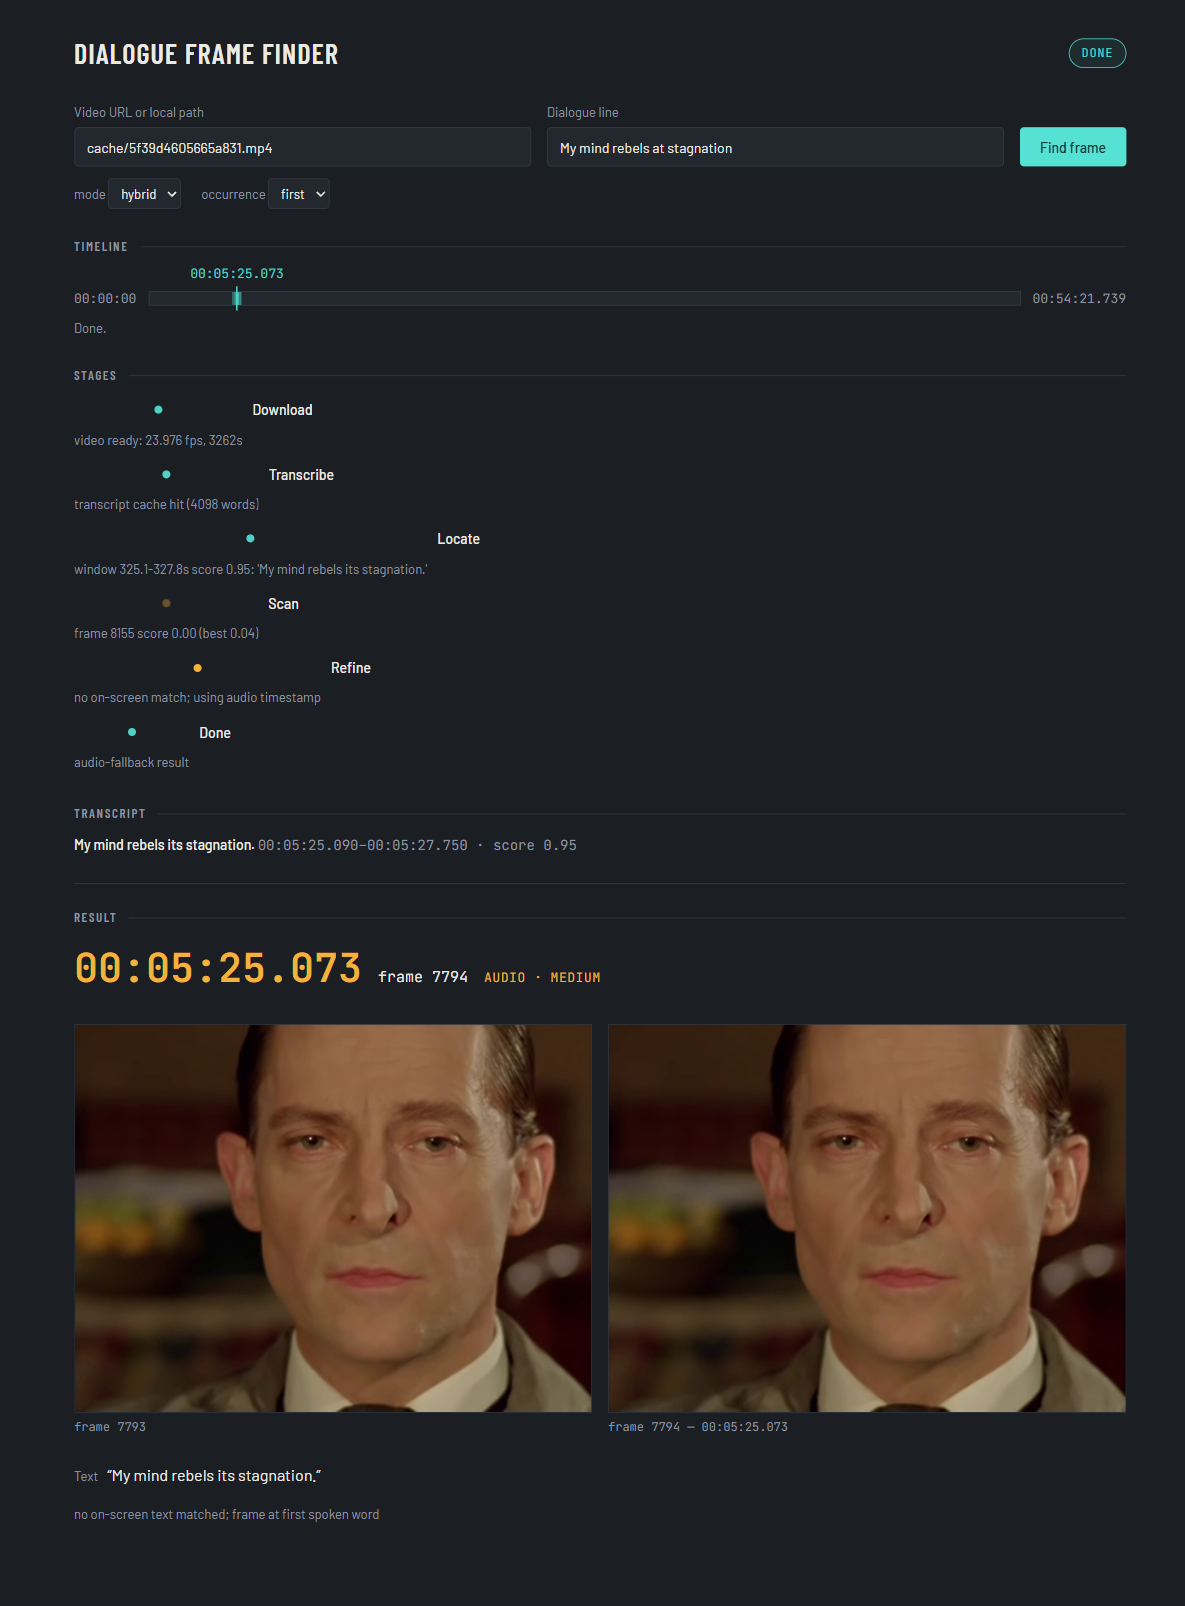
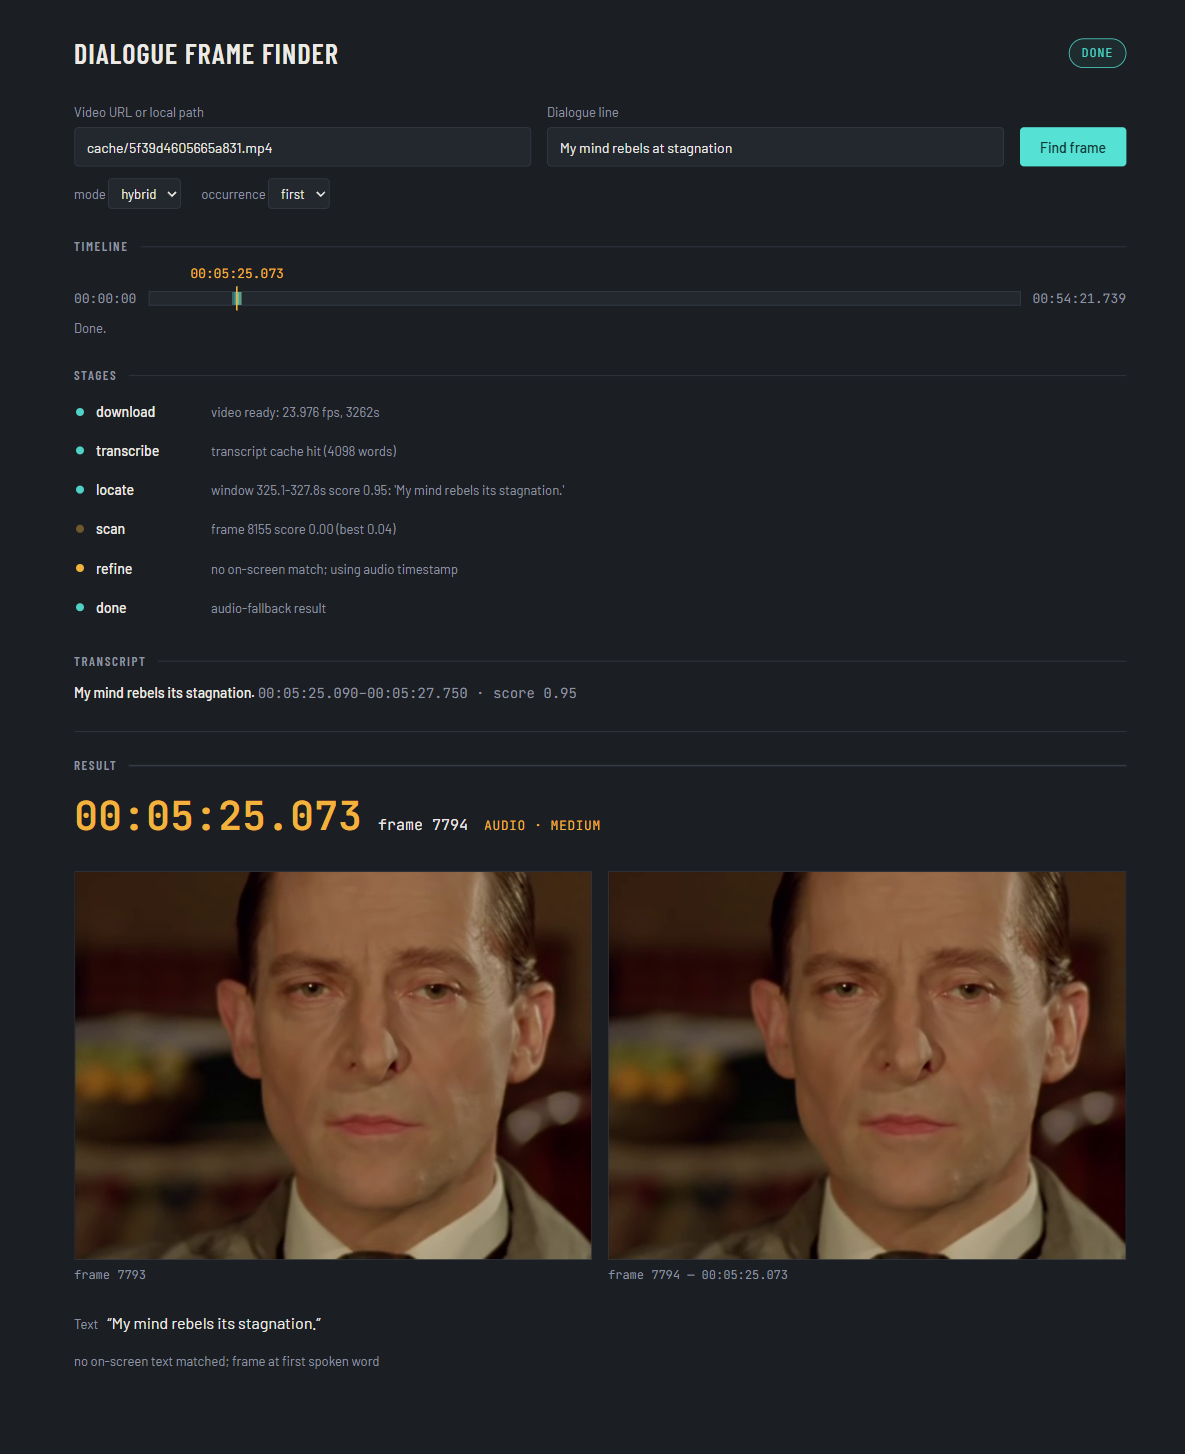
fix: stages row layout, visible audio window, route-coloured marker

diff --git a/frontend/styles.css b/frontend/styles.css
@@ -204,9 +204,11 @@ body {
   bottom: 0;
   background: var(--amber);
   opacity: .35;
+  min-width: 6px;
+  z-index: 1;
 }
 
-.ticks { position: absolute; inset: 0; }
+.ticks { position: absolute; inset: 0; z-index: 2; }
 
 .ticks i {
   position: absolute;
@@ -227,7 +229,11 @@ body {
   width: 2px;
   background: var(--teal);
   transition: left 150ms ease-out;
+  z-index: 3;
 }
+
+#timeline[data-route="audio"] .marker { background: var(--amber); }
+#timeline[data-route="ocr"] .marker { background: var(--teal); }
 
 .marker .tc {
   position: absolute;
@@ -236,6 +242,9 @@ body {
   transform: translateX(-50%);
   color: var(--teal);
 }
+
+#timeline[data-route="audio"] .marker .tc { color: var(--amber); }
+#timeline[data-route="ocr"] .marker .tc { color: var(--teal); }
 
 .hint { color: var(--muted); font-size: 13px; margin: 0; }
 
@@ -252,11 +261,11 @@ body {
 
 .stages li {
   display: grid;
-  grid-template-columns: auto 1fr;
-  align-items: center;
-  gap: 10px;
+  grid-template-columns: 12px 7.5em 1fr;
+  align-items: baseline;
+  gap: 0 10px;
   font-size: 14px;
-  padding: 4px 0;
+  padding: 6px 0;
 }
 
 .stages li::before {
@@ -265,6 +274,7 @@ body {
   height: 8px;
   border-radius: 50%;
   background: var(--muted);
+  align-self: center;
   justify-self: center;
 }
 
@@ -280,7 +290,8 @@ body {
 
 .stages b {
   font-weight: 500;
-  text-transform: capitalize;
+  text-transform: lowercase;
+  text-align: left;
 }
 
 .stages .msg {
@@ -289,6 +300,15 @@ body {
   overflow: hidden;
   text-overflow: ellipsis;
   white-space: nowrap;
+}
+
+@media (max-width: 720px) {
+  .stages .msg {
+    grid-column: 2 / -1;
+    white-space: normal;
+    overflow: visible;
+    text-overflow: clip;
+  }
 }
 
 @keyframes pulse {

diff --git a/frontend/app.js b/frontend/app.js
@@ -14,6 +14,7 @@ const showError = (msg) => { error.textContent = msg; error.hidden = false; setS
 function reset() {
   error.hidden = true; $("result").hidden = true; $("cands-block").hidden = true; $("transcript-block").hidden = true;
   $("filmstrip").innerHTML = ""; $("ticks").innerHTML = ""; $("window").hidden = true; $("marker").hidden = true;
+  delete $("timeline").dataset.route;
   $("tc-end").textContent = "--:--:--"; duration = 0; fps = 0; seenCandidates.clear();
   document.querySelectorAll("#stages li").forEach((li) => { li.dataset.status = ""; li.querySelector(".msg").textContent = ""; });
   hint.textContent = "Starting…";
@@ -71,7 +72,7 @@ async function finish(st) {
   setState("done", "done"); hint.textContent = "Done.";
   placeMarker(r.timestamp_s);
   $("r-tc").textContent = r.timestamp; $("r-frame").textContent = `frame ${r.frame_index}`;
-  $("r-route").textContent = `${r.source} · ${r.confidence}`; $("result").dataset.route = r.source.startsWith("ocr") ? "ocr" : "audio";
+  $("r-route").textContent = `${r.source} · ${r.confidence}`; $("result").dataset.route = $("timeline").dataset.route = r.source.startsWith("ocr") ? "ocr" : "audio";
   $("r-img").src = `/jobs/${jobId}/frames/${r.frame_index}.png`; $("r-img-cap").textContent = `frame ${r.frame_index} — ${r.timestamp}`;
   if (r.frame_index > 0) { $("r-prev").src = `/jobs/${jobId}/frames/${r.frame_index - 1}.png`; $("r-prev-cap").textContent = `frame ${r.frame_index - 1}${r.appearance ? " — " + r.appearance : ""}`; }
   $("r-text").textContent = r.text; $("r-note").textContent = r.note || "";
